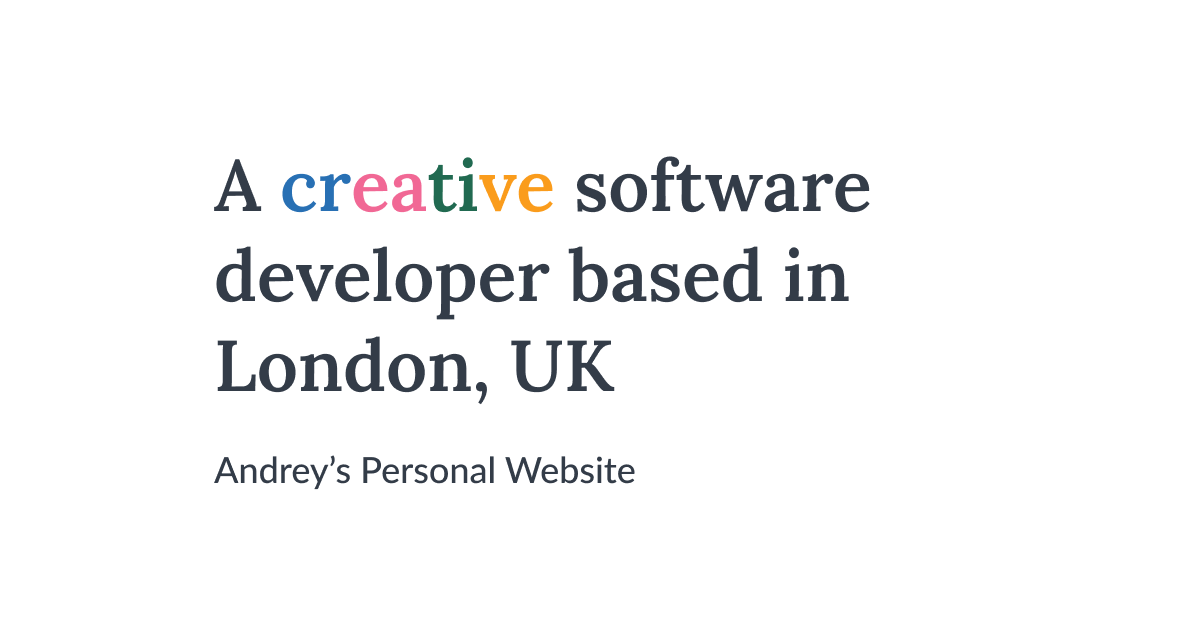
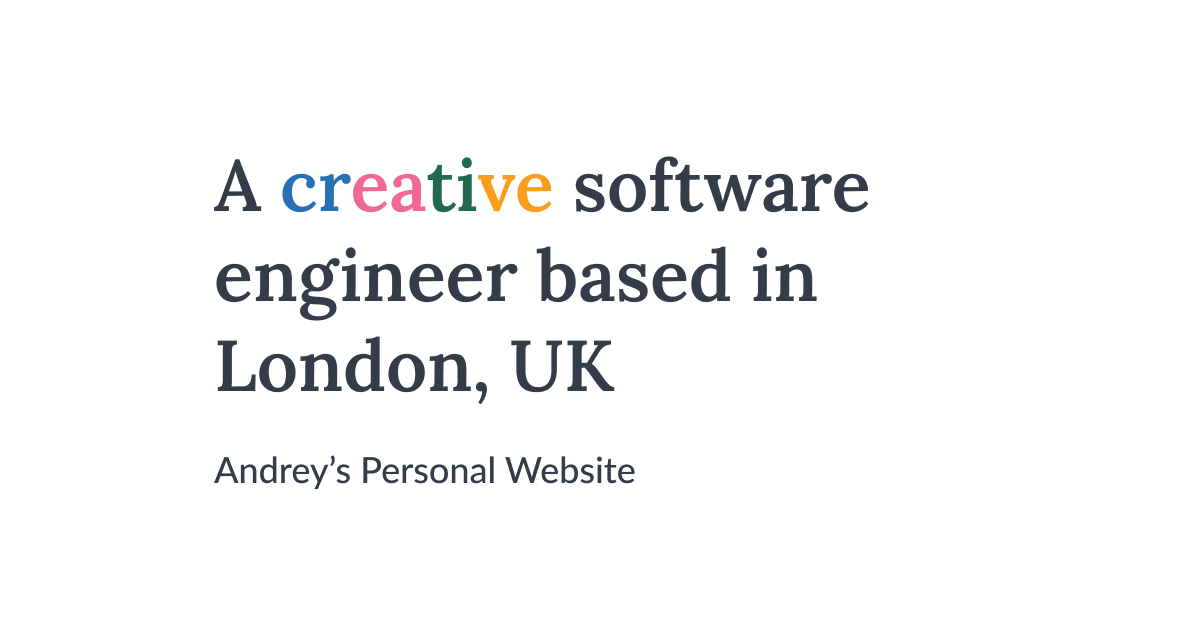
Updated website copy & small improvements

Changed region(s): [[0.185, 0.3921, 0.7092, 0.5127], [0.3392, 0.2413, 0.7092, 0.3317]]

diff --git a/components/AboutSection/index.tsx b/components/AboutSection/index.tsx
@@ -55,12 +55,13 @@ const AboutSection = () => {
             </FeatureText>
           </FeaturesWrapper>
           <AboutText className="animate-appear">
-            Self-taught software developer with a strong knowledge of
-            TypeScript, JavaScript, Python and Swift.
+            Self-taught software engineer with a strong knowledge of
+            TypeScript, JavaScript, Swift and Python.
             <br />
-            <br /> An International Baccalaureate graduate from Leysin American
-            School in Switzerland, I am currently pursuing a Bachelor of
-            Business Administration in London, UK.
+            <br />
+            An International Baccalaureate graduate from Leysin American School
+            in Switzerland, with a Bachelor of Business Administration from Hult
+            International Business School.
             <br />
             <br />I am fluent in English and Russian and have experience working
             and studying in an international environment.

diff --git a/components/ExperienceSection/index.tsx b/components/ExperienceSection/index.tsx
@@ -1,6 +1,6 @@
 import React, { useRef, useEffect, useState } from "react";
 import { gsap } from "gsap";
-import experiences from "@/data/experiences";
+import experiences, { openForWork } from "@/data/experiences";
 import StyledLink from "@/components/StyledLink";
 import ExperienceCell from "./ExperienceCell";
 import { SectionTitle } from "@/stitches.config";
@@ -64,9 +64,11 @@ const ExperienceSection = () => {
           })}
 
           <MoreInfoWrapper>
-            <OpenToWorkText>
-              * {mobile ? "Open for work" : "Currently open for work"}
-            </OpenToWorkText>
+            {openForWork && (
+              <OpenToWorkText>
+                * {mobile ? "Open for work" : "Currently open for work"}
+              </OpenToWorkText>
+            )}
             <StyledLink href="/resume.pdf" title="EXPLORE FULL CV" />
           </MoreInfoWrapper>
         </ExperiencesList>

diff --git a/components/FooterSection/index.tsx b/components/FooterSection/index.tsx
@@ -8,13 +8,11 @@ import {
   SocialMediaWrapper,
   SocialMediaIcon,
   StyledFooter,
-  FooterText,
-  FooterBr,
 } from "./styles";
 
 const FooterSection = () => {
   const [linkHovered, setLinkHovered] = useState(false);
-
+  const today = new Date();
   return (
     <FooterWrapper>
       <div className="container">
@@ -40,10 +38,8 @@ const FooterSection = () => {
           ))}
         </SocialMediaWrapper>
         <StyledFooter>
-          <FooterText>
-            Made with lots of coffee.
-            <FooterBr /> Andrey Mitko © 2023.
-          </FooterText>
+          <span>© {today.getFullYear()} Andrey Mitko.</span>
+          <span>All Rights Reserved.</span>
         </StyledFooter>
       </div>
     </FooterWrapper>

diff --git a/components/FooterSection/styles.tsx b/components/FooterSection/styles.tsx
@@ -110,23 +110,23 @@ export const SocialMediaIcon = styled("i", {
 
 export const StyledFooter = styled("footer", {
   gridArea: "footer",
+  display: "flex",
   width: "100%",
   marginTop: "60px",
-  color: "$black70",
-});
 
-export const FooterBr = styled("br", {
+  justifyContent: "space-between",
+  alignItems: "center",
+  flexDirection: "column",
+  gap: "16px",
+
   "@tablet": {
-    display: "none",
+    flexDirection: "row",
+    justifyContent: "start",
+    gap: "4px",
   },
-});
 
-export const FooterText = styled("p", {
-  fontSize: "14px",
-  lineHeight: "2",
-
-  textAlign: "center",
-  "@tablet": {
-    textAlign: "left",
+  "& > *": {
+    fontSize: "14px",
+    color: "$black70",
   },
 });

diff --git a/data/experiences/index.ts b/data/experiences/index.ts
@@ -1,6 +1,13 @@
 import Experience from "@/types/Experience";
 
+export const openForWork = false;
+
 export default [
+  {
+    title: "Software Engineer",
+    company: "Starling Bank",
+    period: "Sep 2023 — Present",
+  },
   {
     title: "Full-Stack Developer",
     company: "Spring — Full Service Studio",
@@ -10,10 +17,5 @@ export default [
     title: "iOS Engineer",
     company: "Crowdhaus — Property Discovery",
     period: "Jan 2021 — Mar 2022",
-  },
-  {
-    title: "Founder",
-    company: "Card — Share Social Profiles",
-    period: "Jun 2020  — Nov 2022",
   },
 ] as Experience[];

diff --git a/components/ExperienceSection/styles.tsx b/components/ExperienceSection/styles.tsx
@@ -27,7 +27,7 @@ export const ExperiencesList = styled("div", {
   display: "flex",
   flexDirection: "column",
   justifyContent: "space-between",
-  alignItems: "baseline",
+  alignItems: "flex-end",
   rowGap: "40px",
 
   "@tablet": {
@@ -48,6 +48,9 @@ export const MoreInfoWrapper = styled("div", {
   justifyContent: "space-between",
   alignItems: "center",
   paddingTop: "8px",
+  "& a:only-child": {
+    marginLeft: "auto",
+  },
 });
 
 export const OpenToWorkText = styled("h5", {

diff --git a/components/HeroSection/index.tsx b/components/HeroSection/index.tsx
@@ -31,7 +31,7 @@ const HeroSection = () => {
           I am a <ColouredText type="blue">cr</ColouredText>
           <ColouredText type="pink">ea</ColouredText>
           <ColouredText type="green">ti</ColouredText>
-          <ColouredText type="orange">ve</ColouredText> software developer
+          <ColouredText type="orange">ve</ColouredText> software engineer
           currently based in London, UK
         </HeroText>
       </HeroWrapper>
